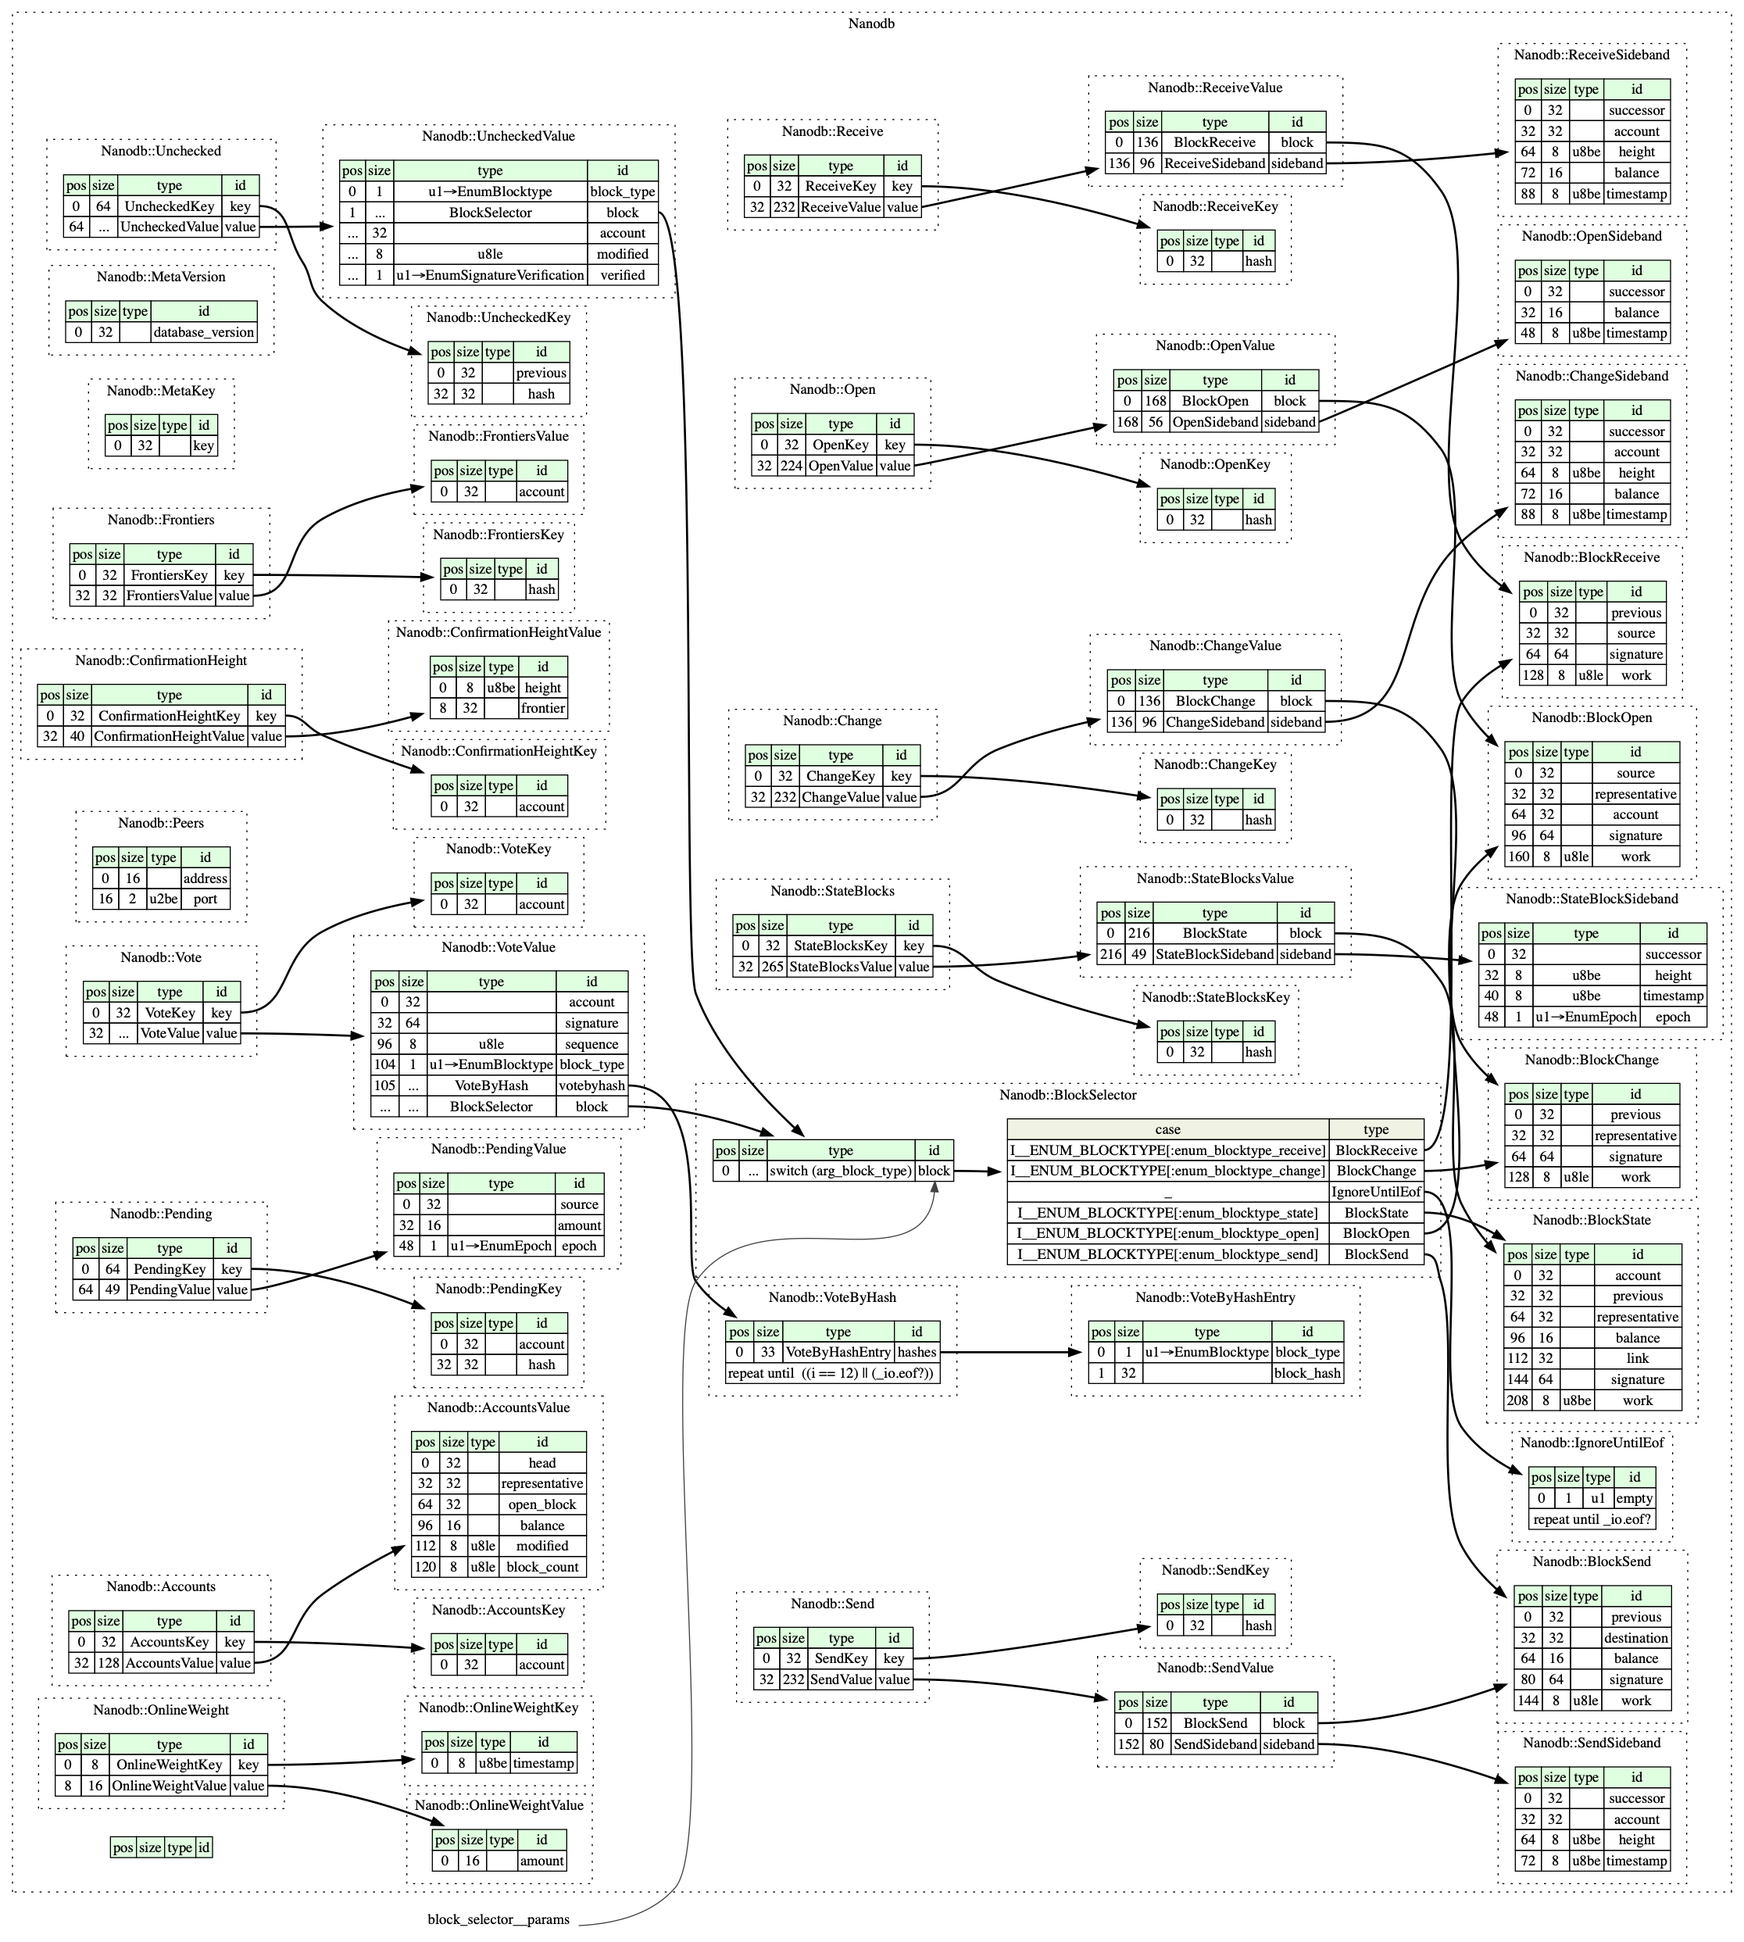
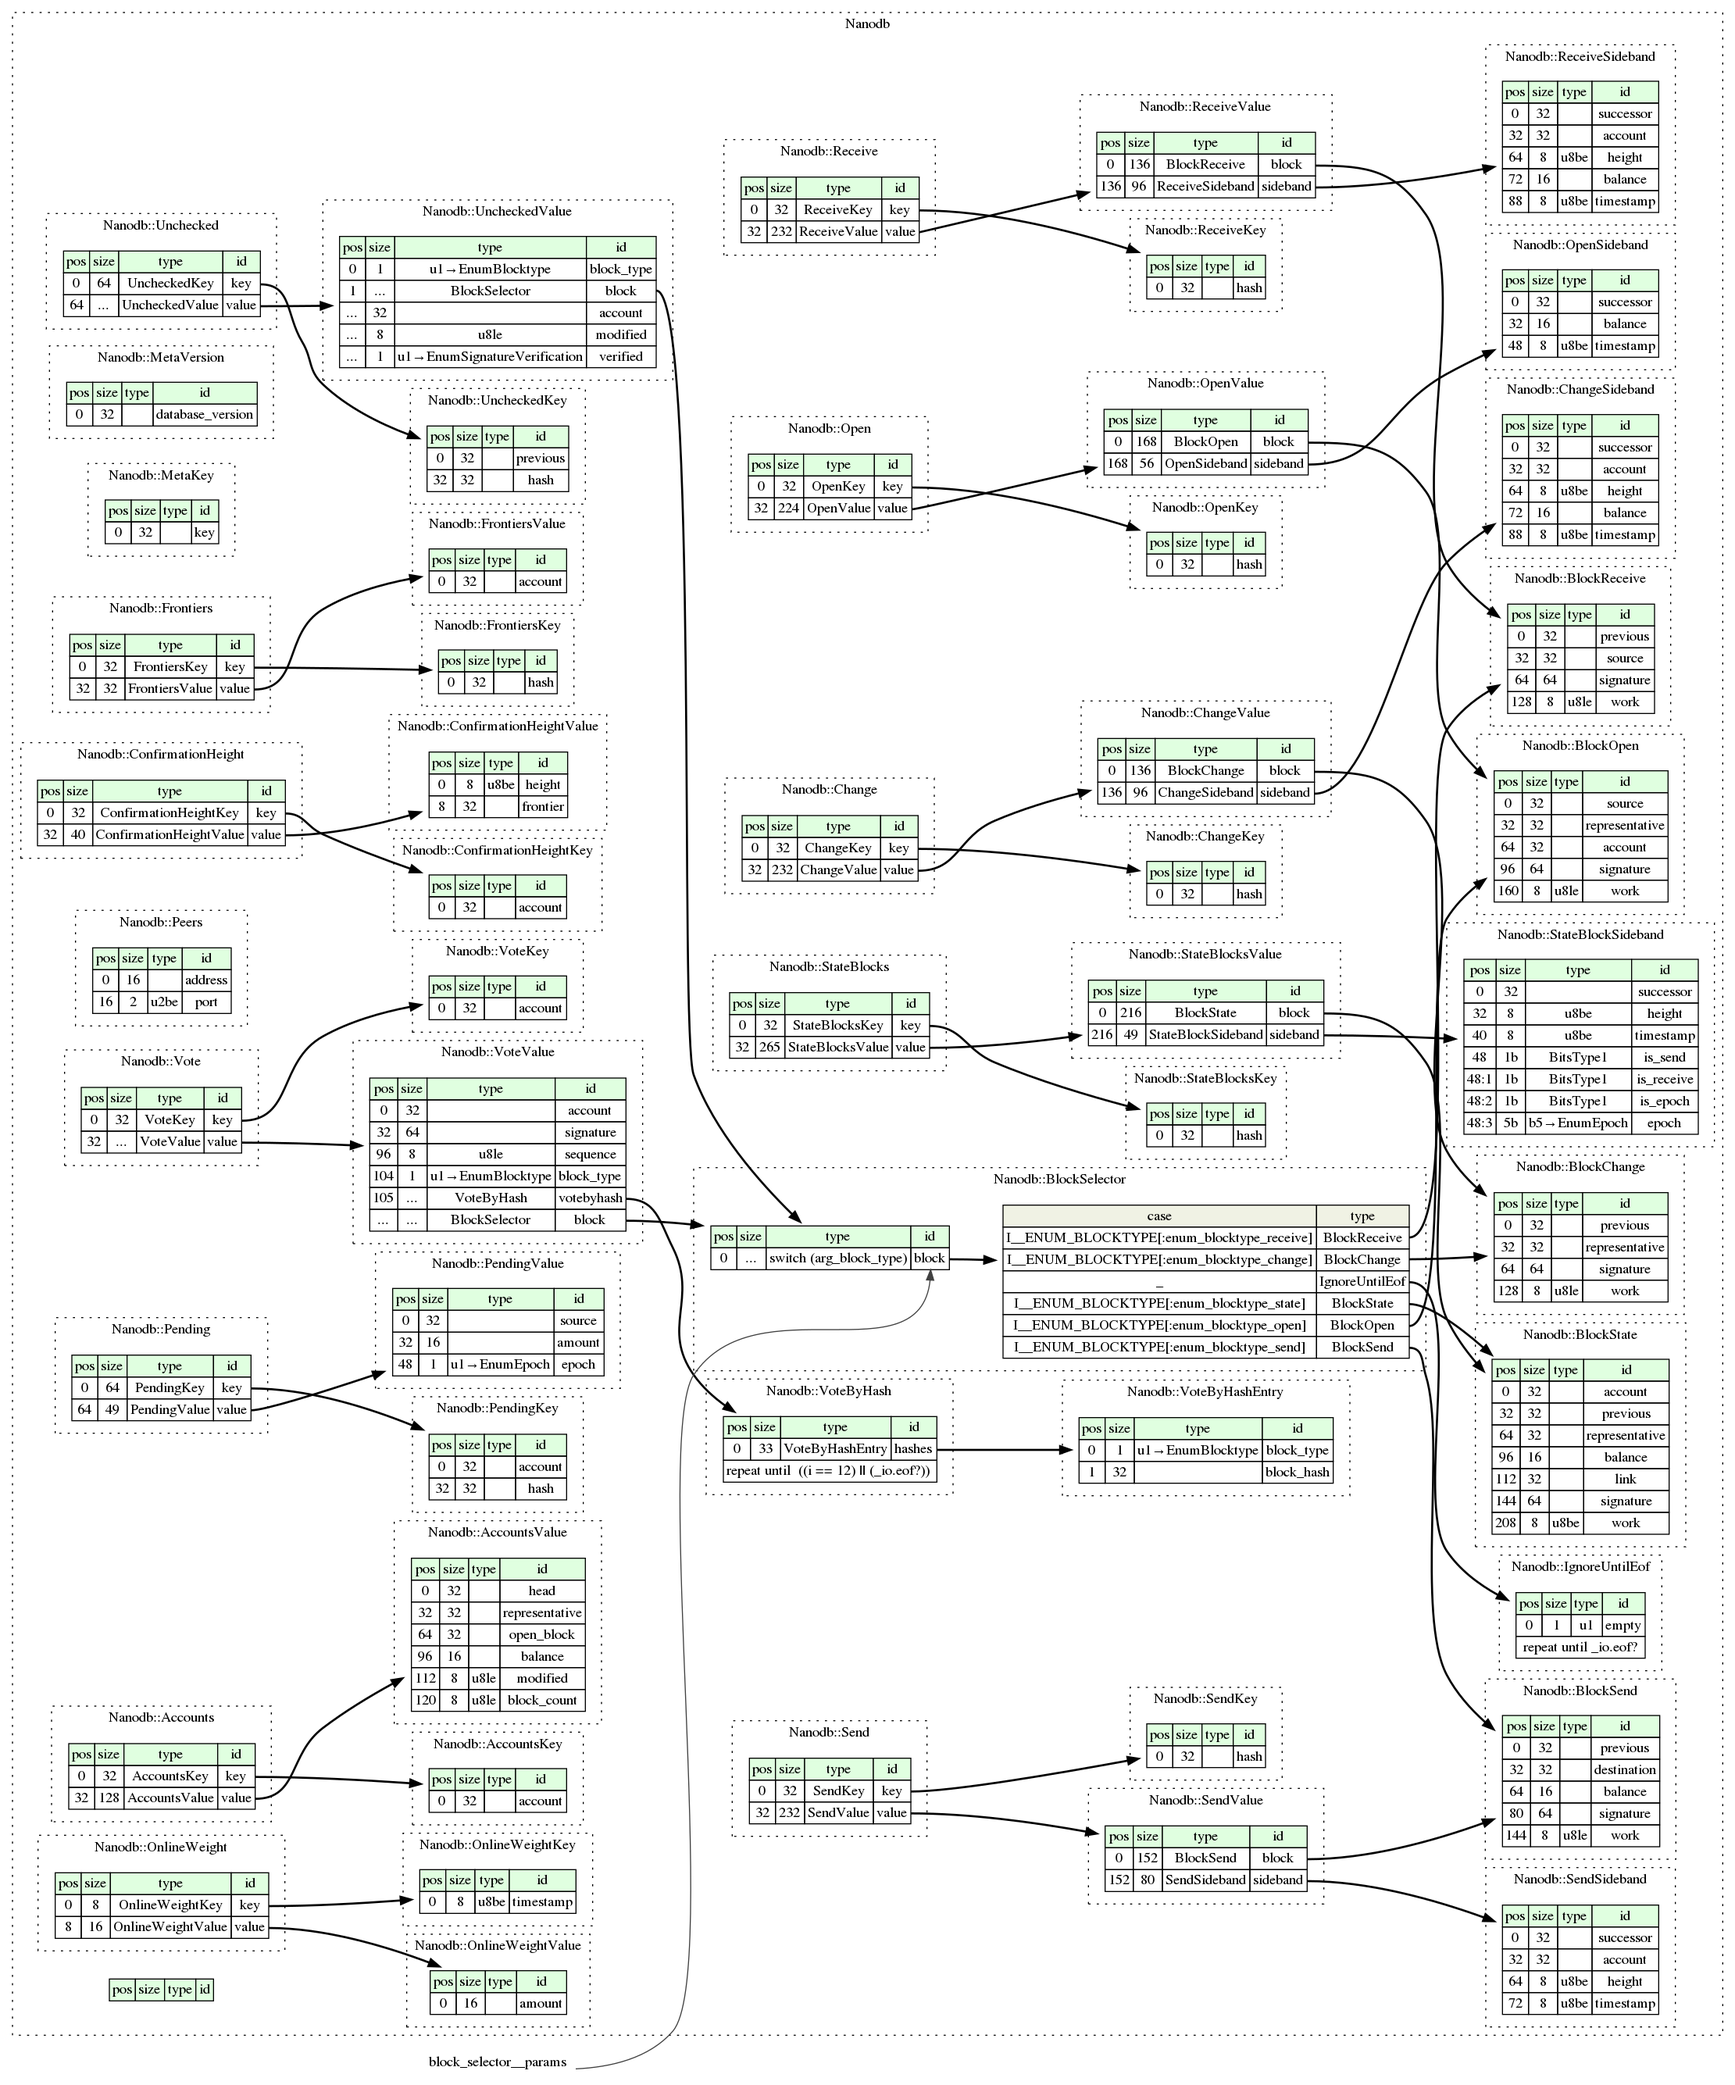
V18 store upgrade details

diff --git a/sample/nanodb.py b/sample/nanodb.py
@@ -57,7 +57,10 @@ class Nanodb(KaitaiStruct):
             self.successor = self._io.read_bytes(32)
             self.height = self._io.read_u8be()
             self.timestamp = self._io.read_u8be()
-            self.epoch = self._root.EnumEpoch(self._io.read_u1())
+            self.is_send = self._io.read_bits_int(1) != 0
+            self.is_receive = self._io.read_bits_int(1) != 0
+            self.is_epoch = self._io.read_bits_int(1) != 0
+            self.epoch = self._root.EnumEpoch(self._io.read_bits_int(5))
 
 
     class ReceiveKey(KaitaiStruct):
@@ -175,16 +178,16 @@ class Nanodb(KaitaiStruct):
 
         def _read(self):
             _on = self.arg_block_type
-            if _on == self._root.EnumBlocktype.receive.value:
-                self.block = self._root.BlockReceive(self._io, self, self._root)
-            elif _on == self._root.EnumBlocktype.change.value:
-                self.block = self._root.BlockChange(self._io, self, self._root)
+            if _on == self._root.EnumBlocktype.open.value:
+                self.block = self._root.BlockOpen(self._io, self, self._root)
             elif _on == self._root.EnumBlocktype.state.value:
                 self.block = self._root.BlockState(self._io, self, self._root)
-            elif _on == self._root.EnumBlocktype.open.value:
-                self.block = self._root.BlockOpen(self._io, self, self._root)
+            elif _on == self._root.EnumBlocktype.receive.value:
+                self.block = self._root.BlockReceive(self._io, self, self._root)
             elif _on == self._root.EnumBlocktype.send.value:
                 self.block = self._root.BlockSend(self._io, self, self._root)
+            elif _on == self._root.EnumBlocktype.change.value:
+                self.block = self._root.BlockChange(self._io, self, self._root)
             else:
                 self.block = self._root.IgnoreUntilEof(self._io, self, self._root)
 

diff --git a/sample/read.py b/sample/read.py
@@ -259,6 +259,9 @@ try:
                 print('    successor     : {}'.format(state_block.sideband.successor.hex().upper()))
                 print('    height        : {}'.format(state_block.sideband.height))
                 print('    timestamp     : {}'.format(datetime.datetime.utcfromtimestamp(state_block.sideband.timestamp)))
+                print('    is_send       : {}'.format(state_block.sideband.is_send))
+                print('    is_receive    : {}'.format(state_block.sideband.is_receive))
+                print('    is_epoch      : {}'.format(state_block.sideband.is_epoch))
                 print('    epoch         : {}'.format(state_block.sideband.epoch.name))
                 print('')
 

diff --git a/README.MD b/README.MD
@@ -145,3 +145,9 @@ online weight  : 97683094289936149573532425682751217817
 ```
 Database version:  16
 ```
+
+## Generating a diagram
+
+This needs the package `graphviz`
+
+`kaitai-struct-compiler -t graphviz nanodb.ksy && dot -Tpng nanodb.dot > nanodb.png`
